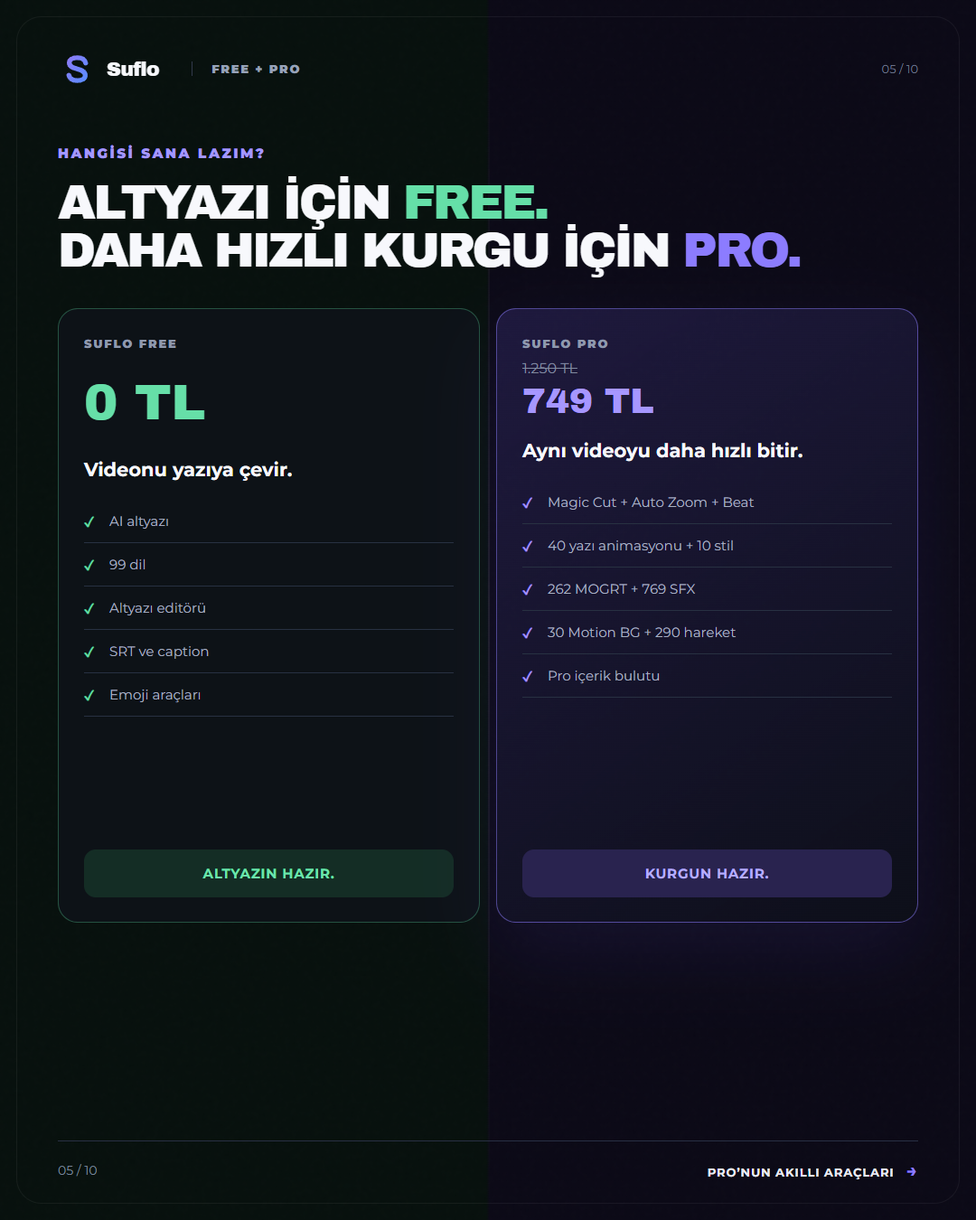
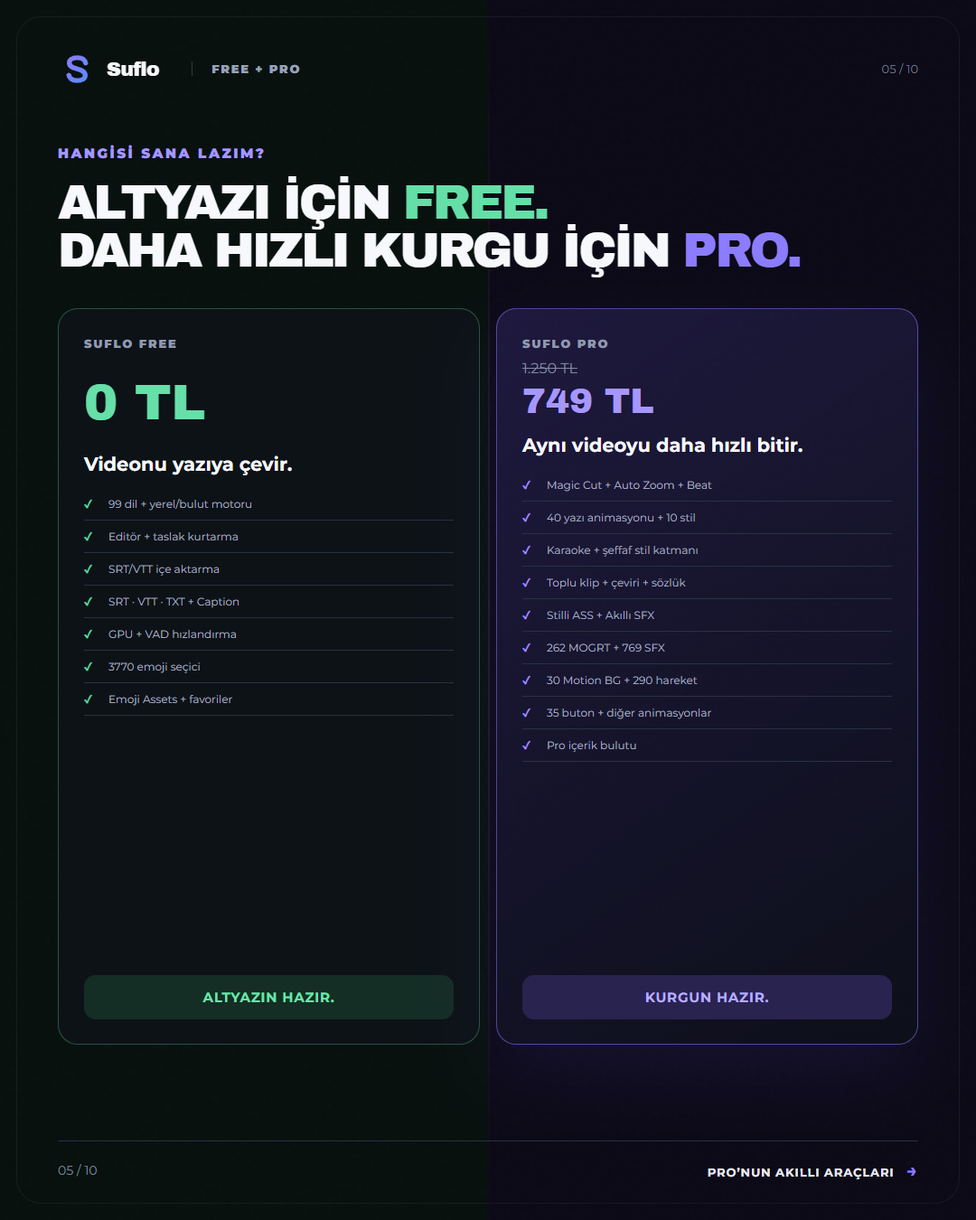
Complete Suflo carousel feature coverage

diff --git a/brand/campaign-2.8.2-FINAL/carousel.html b/brand/campaign-2.8.2-FINAL/carousel.html
@@ -29,7 +29,7 @@
       </div>
       <div class="hero-panel device"><img src="panel-captures/01-captions.png" alt="Suflo AI Altyazı paneli"></div>
       <div class="launch-ribbon"><span>DAHA HIZLI KURGU İSTEYENE</span><b>SUFLO PRO</b><del>1.250 TL</del><strong>749 TL</strong></div>
-      <footer class="foot"><span>suflo.app</span><b>KAYDIR: NASIL ÇALIŞIYOR? <i>→</i></b></footer>
+      <footer class="foot"><span>suflo.app · WINDOWS + macOS · PREMIERE 2020+</span><b>KAYDIR: NASIL ÇALIŞIYOR? <i>→</i></b></footer>
     </section>
 
     <section class="slide why" data-slide="2">
@@ -46,6 +46,15 @@
         <article class="suflo-score"><span>SUFLO</span><strong>99</strong><b>dil desteği</b></article>
       </div>
       <div class="local-proof"><i>●</i><div><b>SESİN BİLGİSAYARINDAN ÇIKMAZ</b><span>Altyazı bilgisayarında hazırlanır; dosyan hiçbir yere yüklenmez.</span></div><strong>YEREL AI</strong></div>
+      <div class="speed-proof">
+        <div class="speed-lead"><span>83 SANİYELİK GERÇEK KAYITTA</span><strong>22×</strong><b>KATA KADAR HIZLI</b></div>
+        <div class="speed-metrics">
+          <article><span>ESKİ MOTOR</span><strong>26,7 sn</strong></article>
+          <article><span>CPU + VAD</span><strong>8,5 sn</strong></article>
+          <article><span>NVIDIA GPU</span><strong>1,2 sn</strong></article>
+        </div>
+        <div class="speed-tech"><b>VAD</b><span>sessizliği atlar</span><b>CUDA + METAL</b><span>GPU’yu kullanır</span><b>5 MODEL</b><span>Tiny → Large v3</span><b>4 MOTOR</b><span>Yerel · Groq · OpenAI · Özel</span></div>
+      </div>
       <footer class="foot"><span>02 / 10</span><b>KURULUMDAN ALTYAZIYA 3 ADIM <i>→</i></b></footer>
     </section>
 
@@ -63,6 +72,16 @@
       </div>
       <div class="steps-panel device"><img src="panel-captures/01-captions.png" alt="Suflo Altyazı paneli"></div>
       <div class="micro-flow"><span>VİDEO</span><i>→</i><span>AI METİN</span><i>→</i><span>TIMELINE</span></div>
+      <div class="edit-proof">
+        <div class="edit-proof-head"><b>EDİTÖR DE İÇİNDE</b><span>Altyazıyı Premiere’e göndermeden bitir.</span></div>
+        <div class="edit-proof-grid">
+          <article><b>BÖL · BİRLEŞTİR</b><span>Satır ekle, sil, zamanı elle düzelt.</span></article>
+          <article><b>GERİ AL · KURTAR</b><span>Ctrl+Z/Y ve otomatik taslak.</span></article>
+          <article><b>BUL & DEĞİŞTİR</b><span>Türkçe İ/ı duyarlı tam kelime.</span></article>
+          <article><b>TOPLU KAYDIR</b><span>±0,5 sn; zamandan playhead’e git.</span></article>
+        </div>
+        <div class="format-strip"><b>İÇE: SRT · VTT</b><i>→</i><b>DIŞA: SRT · VTT · ASS · TXT</b><i>→</i><b>CAPTION</b></div>
+      </div>
       <footer class="foot"><span>03 / 10</span><b>PEKİ ÜCRETSİZDE NELER VAR? <i>→</i></b></footer>
     </section>
 
@@ -80,6 +99,14 @@
         <article><i>∞</i><div><b>Sınırsız kullanım</b><span>Kredi de yok, kullanım sayacı da.</span></div></article>
       </div>
       <div class="free-note"><b>BU KISIM ÜCRETSİZ KALACAK.</b><span>Pro almadan da altyazıyı sınırsız kullanırsın.</span></div>
+      <div class="free-detail-grid">
+        <article><b>SRT + VTT İÇE AKTAR</b><span>Dosyanı aç, düzelt, yeniden uygula.</span></article>
+        <article><b>GERİ AL + TASLAK</b><span>Çökse bile yaptığın iş kaybolmaz.</span></article>
+        <article><b>5 MODEL + VAD</b><span>Tiny · Base · Small · Turbo · Large v3</span></article>
+        <article><b>3770 EMOJİ</b><span>Türkçe ara; Apple görünümüyle metne veya playhead’e ekle.</span></article>
+      </div>
+      <div class="free-engine-strip"><b>YEREL</b><span>offline · sınırsız</span><i>+</i><b>GROQ</b><span>hızlı bulut</span><i>+</i><b>EMOJI ASSETS</b><span>Cloud veya kendi klasörün</span></div>
+      <div class="free-control-strip"><b>SES KATMANI SEÇ</b><i>•</i><b>SATIR UZUNLUĞU</b><i>•</i><b>NOKTALAMA</b><i>•</i><b>BÜYÜK / küçük HARF</b><i>•</i><b>MIT AÇIK KAYNAK</b></div>
       <footer class="foot"><span>04 / 10</span><b>PRO NEYİ DEĞİŞTİRİYOR? <i>→</i></b></footer>
     </section>
 
@@ -94,13 +121,13 @@
         <article class="free-column">
           <span class="plan-label">SUFLO FREE</span><strong>0 TL</strong>
           <h3>Videonu yazıya çevir.</h3>
-          <ul><li>AI altyazı</li><li>99 dil</li><li>Altyazı editörü</li><li>SRT ve caption</li><li>Emoji araçları</li></ul>
+          <ul><li>99 dil + yerel/bulut motoru</li><li>Editör + taslak kurtarma</li><li>SRT/VTT içe aktarma</li><li>SRT · VTT · TXT + Caption</li><li>GPU + VAD hızlandırma</li><li>3770 emoji seçici</li><li>Emoji Assets + favoriler</li></ul>
           <b class="plan-result">ALTYAZIN HAZIR.</b>
         </article>
         <article class="pro-column">
           <span class="plan-label">SUFLO PRO</span><div class="mini-price"><del>1.250 TL</del><strong>749 TL</strong></div>
           <h3>Aynı videoyu daha hızlı bitir.</h3>
-          <ul><li>Magic Cut + Auto Zoom + Beat</li><li>40 yazı animasyonu + 10 stil</li><li>262 MOGRT + 769 SFX</li><li>30 Motion BG + 290 hareket</li><li>Pro içerik bulutu</li></ul>
+          <ul><li>Magic Cut + Auto Zoom + Beat</li><li>40 yazı animasyonu + 10 stil</li><li>Karaoke + şeffaf stil katmanı</li><li>Toplu klip + çeviri + sözlük</li><li>Stilli ASS + Akıllı SFX</li><li>262 MOGRT + 769 SFX</li><li>30 Motion BG + 290 hareket</li><li>35 buton + diğer animasyonlar</li><li>Pro içerik bulutu</li></ul>
           <b class="plan-result">KURGUN HAZIR.</b>
         </article>
       </div>
@@ -115,9 +142,15 @@
         <h2>SESSİZLİKLERİ KES.<br><em>ZOOM’U TEK TEK YAPMA.</em></h2>
       </div>
       <div class="tool-cards">
-        <article><div class="tool-shot"><img src="panel-captures/05-magic-cut.png" alt="Magic Cut"></div><span>01</span><b>MAGIC CUT</b><p>Sessizlikleri bulur. Kontrol edersin, onayladığını uygular.</p></article>
-        <article><div class="tool-shot"><img src="panel-captures/06-auto-zoom.png" alt="Auto Zoom"></div><span>02</span><b>AUTO ZOOM</b><p>Konuşmanın vurgulu yerlerine seçtiğin tarzda zoom ekler.</p></article>
-        <article class="beat-card"><div class="beat-wave"><i></i><i></i><i></i><i></i><i></i><i></i><i></i></div><span>03</span><b>BEAT MARKER</b><p>Müziğin ritmini bulur, marker’ları timeline’a ekler.</p></article>
+        <article><div class="tool-shot"><img src="panel-captures/05-magic-cut.png" alt="Magic Cut"></div><span>01</span><b>MAGIC CUT</b><p>Sessizlikleri gösterir; onayladığını keser. Kopya sekansta orijinalini korur.</p></article>
+        <article><div class="tool-shot"><img src="panel-captures/06-auto-zoom.png" alt="Auto Zoom"></div><span>02</span><b>AUTO ZOOM</b><p>Yumuşak, sert veya snap zoom; hız, yoğunluk ve aralık ayarlı.</p></article>
+        <article class="beat-card"><div class="beat-wave"><i></i><i></i><i></i><i></i><i></i><i></i><i></i></div><span>03</span><b>BEAT MARKER</b><p>Bas/tiz vuruşlarını bulur, BPM’i söyler ve marker’ları timeline’a ekler.</p></article>
+      </div>
+      <div class="pro-workflow-grid">
+        <article><span>04</span><b>TOPLU KLİP</b><p>Seçtiğin klipleri sırayla tek işlemde yazıya döker.</p></article>
+        <article><span>05</span><b>ÇEVİRİ</b><p>TR · AZ · EN · RU arasında satır sırasını korur.</p></article>
+        <article><span>06</span><b>TERİM SÖZLÜĞÜ</b><p>Marka ve özel isimleri her transkriptte düzeltir.</p></article>
+        <article><span>07</span><b>STİLLİ ASS</b><p>Karaoke etiketleriyle dışa aktar; videoya göm.</p></article>
       </div>
       <footer class="foot"><span>06 / 10</span><b>SIRADA ALTYAZI STİLLERİ VAR <i>→</i></b></footer>
     </section>
@@ -145,8 +178,8 @@
         <div class="mogrt-panel-copy">
           <span>GERÇEK PANEL GÖRÜNÜMÜ</span>
           <strong>ÖNİZLE.<br>TEK TIKLA EKLE.</strong>
-          <p>Ara, favoriye al ve doğrudan timeline’a gönder.</p>
-          <div><b>40 PRO EFEKT</b><b>KENDİ GÜNCELLENİR</b></div>
+          <p>Ara, favoriye al ve doğrudan timeline’a gönder.<br><b class="style-count">10 ALTYAZI STİLİ:</b> Sarı, Yeşil, Kutu, Neon, Temiz, Zarif, Beyaz, Mor, Sticker, Daktilo.<br><b class="style-count">CANLI AYAR:</b> Kare al · font · renk · konum · kontur · hareket şiddeti.</p>
+          <div><b>40 PRO EFEKT</b><b>KARAOKE</b><b>KENDİ GÜNCELLENİR</b></div>
         </div>
       </div>
       <footer class="foot"><span>07 / 10</span><b>DAHA FAZLASI DA VAR <i>→</i></b></footer>
@@ -170,6 +203,12 @@
         <div class="lib-window right"><img src="panel-captures/04-sfx.png" alt="Suflo ses efektleri"><span>WHOOSH · IMPACT · CLICK · CAMERA · PAPER</span></div>
       </div>
       <div class="cloud-strip"><i>↻</i><div><b>PRO İÇERİK BULUTU</b><span>Yeni eklenenleri kendi bulur; sadece gereken dosyaları indirir.</span></div><strong>KENDİ GÜNCELLENİR</strong></div>
+      <div class="library-more-grid">
+        <article><strong>35</strong><b>TÜRKÇE BUTON</b><span>Abone Ol · Takip Et · İndir</span></article>
+        <article><strong>+</strong><b>DİĞER ANİMASYONLAR</b><span>Logo · grafik · lower third</span></article>
+        <article><strong>✦</strong><b>AKILLI SFX</b><span>Altyazıdaki vurguya ses önerir.</span></article>
+        <article><strong>♥</strong><b>FAVORİLER + SON</b><span>Arşivini bağla; aradığını tekrar bul.</span></article>
+      </div>
       <footer class="foot"><span>08 / 10</span><b>SON OLARAK FREE VE PRO FARKI <i>→</i></b></footer>
     </section>
 
@@ -183,15 +222,18 @@
       <div class="compare-table">
         <div class="table-head"><span>ÖZELLİK</span><b>FREE<br><small>0 TL</small></b><b>PRO<br><small>749 TL</small></b></div>
         <div><span>AI altyazı + 99 dil</span><i>✓</i><i>✓</i></div>
-        <div><span>Editör + SRT/Caption</span><i>✓</i><i>✓</i></div>
-        <div><span>Emoji araçları</span><i>✓</i><i>✓</i></div>
+        <div><span>Editör + içe/dışa aktarım + Caption</span><i>✓</i><i>✓</i></div>
+        <div><span>3770 emoji + Emoji Assets</span><i>✓</i><i>✓</i></div>
         <div><span>Magic Cut + Auto Zoom + Beat</span><i class="off">—</i><i>✓</i></div>
-        <div><span>40 yazı animasyonu + 10 stil</span><i class="off">—</i><i>✓</i></div>
-        <div><span>262 MOGRT + 769 SFX</span><i class="off">—</i><i>✓</i></div>
+        <div><span>40 animasyon + 10 stil + Karaoke</span><i class="off">—</i><i>✓</i></div>
+        <div><span>Toplu klip + çeviri + sözlük + ASS</span><i class="off">—</i><i>✓</i></div>
+        <div><span>262 MOGRT + 769 SFX + Akıllı SFX</span><i class="off">—</i><i>✓</i></div>
         <div><span>30 Motion BG + 290 hareket</span><i class="off">—</i><i>✓</i></div>
-        <div><span>Otomatik içerik güncellemesi</span><i class="off">—</i><i>✓</i></div>
+        <div><span>35 buton + diğer animasyonlar</span><i class="off">—</i><i>✓</i></div>
+        <div><span>İçerik bulutu + sağlık raporu</span><i class="off">—</i><i>✓</i></div>
       </div>
       <div class="compare-note"><b>SADECE ALTYAZI YAPIYORSAN:</b><span>Free yeter.</span><b>HER GÜN EDİT YAPIYORSAN:</b><span>Pro daha mantıklı.</span></div>
+      <div class="compare-cloud-proof"><b>PRO BULUTU GÜVENLİ ÇALIŞIR</b><span>Kesilen indirme devam eder · yalnız değişen dosya iner · SHA-256 doğrulanır · çevrimdışıyken son sağlam sürüm çalışır.</span></div>
       <footer class="foot"><span>09 / 10</span><b>FİYATI GÖRELİM <i>→</i></b></footer>
     </section>
 
@@ -206,6 +248,15 @@
       <div class="offer-benefits"><span>✓ Abonelik yok</span><span>✓ 3 bilgisayar</span><span>✓ 14 gün iade</span><span>✓ Ömür boyu güncelleme</span></div>
       <a class="cta" href="https://suflo.app/pro"><span>SUFLO PRO’YA GEÇ</span><b>suflo.app/pro</b><i>→</i></a>
       <div class="offer-free"><b>ALTYAZI İÇİN PRO ŞART DEĞİL.</b><span>Pro; Magic Cut, zoom, yazı animasyonları ve içerik kütüphanesini açar.</span></div>
+      <div class="offer-proof-grid">
+        <article><b>MAGIC CUT</b><span>Sessizlikleri temizle</span></article>
+        <article><b>AUTO ZOOM</b><span>Vurguya punch-in</span></article>
+        <article><b>BEAT MARKER</b><span>Ritmi timeline’a at</span></article>
+        <article><b>40 TEXT + 10 STİL</b><span>Karaoke dahil</span></article>
+        <article><b>262 MOGRT + 769 SFX</b><span>Akıllı önerilerle</span></article>
+        <article><b>290 MOTION + 30 BG</b><span>Tek tık + preset pack</span></article>
+      </div>
+      <div class="offer-workflow-strip">TOPLU KLİP <i>•</i> ÇEVİRİ <i>•</i> TERİM SÖZLÜĞÜ <i>•</i> STİLLİ ASS <i>•</i> 35 BUTON</div>
       <div class="offer-panel device"><img src="panel-captures/03-motion-presets.png" alt="Suflo Pro"></div>
       <footer class="foot"><span>@suflo.app</span><b>HEPSİ PREMIERE PANELİNİN İÇİNDE.</b></footer>
     </section>

diff --git a/brand/campaign-2.8.2-FINAL/carousel.css b/brand/campaign-2.8.2-FINAL/carousel.css
@@ -194,3 +194,25 @@ main,.slide{width:1080px;height:1350px}
 .cta span{font-size:12px}
 .offer-free b{font-size:13px}
 .offer-free span{font-size:12px}
+
+/* FINAL FULL AUDIT — every major Suflo capability earns visible space */
+.speed-proof{position:relative;z-index:9;height:240px;margin-top:16px;padding:18px;border:1px solid #333b50;border-radius:19px;background:linear-gradient(115deg,rgba(13,18,28,.98),rgba(30,25,62,.96));display:grid;grid-template-columns:190px 1fr;grid-template-rows:1fr 55px;gap:12px 16px}.speed-lead{grid-row:1;display:flex;flex-direction:column;justify-content:center}.speed-lead span{color:#9e94e9;font-size:9px;font-weight:900;letter-spacing:1.1px}.speed-lead strong{margin-top:8px;font-family:Archivo;font-size:63px;line-height:.86;color:#a496ff}.speed-lead b{margin-top:9px;font-size:11px;letter-spacing:.7px}.speed-metrics{display:grid;grid-template-columns:repeat(3,1fr);gap:9px}.speed-metrics article{padding:15px 13px;border:1px solid #363e53;border-radius:14px;background:rgba(11,15,24,.88);display:flex;flex-direction:column;justify-content:center}.speed-metrics span{color:#7f899e;font-size:9px;font-weight:900;letter-spacing:.7px}.speed-metrics strong{margin-top:9px;font-family:Archivo;font-size:22px}.speed-metrics article:last-child{border-color:#4d4a86;background:rgba(45,37,93,.45)}.speed-metrics article:last-child strong{color:#a79aff}.speed-tech{grid-column:1/3;padding:0 13px;border:1px solid #334148;border-radius:13px;background:rgba(22,73,57,.14);display:flex;align-items:center;gap:10px}.speed-tech b{color:#69dfa9;font-size:9px;letter-spacing:.55px}.speed-tech span{color:#82968f;font-size:9px}.speed-tech span:not(:last-child){margin-right:7px}
+
+.edit-proof{position:relative;z-index:14;width:515px;margin-top:14px;padding:15px;border:1px solid #343b50;border-radius:18px;background:rgba(12,16,26,.97)}.edit-proof-head{display:flex;align-items:center;justify-content:space-between}.edit-proof-head b{font-size:12px;letter-spacing:.8px;color:#a69bff}.edit-proof-head span{color:#7e899d;font-size:9px}.edit-proof-grid{margin-top:11px;display:grid;grid-template-columns:1fr 1fr;gap:8px}.edit-proof-grid article{height:68px;padding:11px 12px;border:1px solid #2c3447;border-radius:12px;background:#0f1420;display:flex;flex-direction:column}.edit-proof-grid b{font-size:9px;letter-spacing:.45px}.edit-proof-grid span{margin-top:5px;color:#7f899d;font-size:8px;line-height:1.35}.format-strip{height:48px;margin-top:9px;padding:0 10px;border:1px solid #493f83;border-radius:11px;background:#211c42;display:flex;align-items:center;justify-content:center;gap:8px}.format-strip b{font-size:7px;letter-spacing:.35px;white-space:nowrap}.format-strip i{color:#7164ce;font-style:normal}
+
+.free-detail-grid{position:relative;z-index:9;margin-top:14px;display:grid;grid-template-columns:repeat(4,1fr);gap:9px}.free-detail-grid article{height:100px;padding:14px 12px;border:1px solid #29433a;border-radius:14px;background:rgba(12,26,21,.91);display:flex;flex-direction:column}.free-detail-grid b{color:#dff9ec;font-size:10px;letter-spacing:.35px}.free-detail-grid span{margin-top:8px;color:#799187;font-size:9px;line-height:1.4}.free-engine-strip{position:relative;z-index:9;height:58px;margin-top:10px;padding:0 16px;border:1px solid #2e5546;border-radius:13px;background:rgba(20,64,49,.18);display:flex;align-items:center;gap:9px}.free-engine-strip b{color:#68dfa8;font-size:9px;letter-spacing:.55px}.free-engine-strip span{color:#81968e;font-size:9px}.free-engine-strip i{color:#3d765e;font-style:normal}
+
+.bridge-columns>article{height:815px}.bridge-columns li{padding:10px 0 10px 27px;font-size:12px;line-height:1.25}.bridge-columns h3{margin:20px 0 14px}.plan-result{padding:15px}
+
+.pro-workflow-grid{position:relative;z-index:9;margin-top:14px;display:grid;grid-template-columns:1fr 1fr;gap:10px}.pro-workflow-grid article{height:100px;padding:15px 17px;border:1px solid #30394c;border-radius:15px;background:linear-gradient(145deg,rgba(16,20,31,.98),rgba(28,23,54,.95));display:grid;grid-template-columns:35px 1fr;grid-template-rows:24px 1fr;column-gap:11px}.pro-workflow-grid span{grid-row:1/3;color:#9588fa;font-family:Archivo;font-size:12px}.pro-workflow-grid b{font-size:12px;letter-spacing:.35px}.pro-workflow-grid p{margin:3px 0 0;color:#858fa3;font-size:9px;line-height:1.4}
+
+.mogrt-panel-copy .style-count{padding:0;border:0;border-radius:0;background:none;color:#b9b1ff;font-size:9px}.mogrt-panel-copy>p{font-size:9px;line-height:1.42}.mogrt-panel-copy>div{gap:5px}.mogrt-panel-copy>div b{padding:7px 8px;font-size:7px}
+
+.library-more-grid{position:relative;z-index:12;margin-top:13px;display:grid;grid-template-columns:repeat(4,1fr);gap:9px}.library-more-grid article{height:135px;padding:16px 14px;border:1px solid #333b50;border-radius:15px;background:linear-gradient(145deg,rgba(15,19,29,.97),rgba(26,21,50,.96));display:flex;flex-direction:column}.library-more-grid strong{font-family:Archivo;font-size:29px;line-height:.9;color:#9f92ff}.library-more-grid b{margin-top:11px;font-size:10px;letter-spacing:.4px}.library-more-grid span{margin-top:8px;color:#7f899d;font-size:9px;line-height:1.4}.library-more-grid article:nth-child(3) strong{color:#5eddd1}.library-more-grid article:nth-child(4) strong{color:#ff7ea0}
+
+.compare-table>div{height:55px;grid-template-columns:1fr 118px 118px}.compare-table .table-head{height:68px}.compare-table span{font-size:11px}.compare-table i{width:28px;height:28px;border-radius:9px}.compare-note{height:92px;margin-top:12px;grid-template-columns:230px 1fr;padding:13px 18px}.compare-note b{font-size:10px}.compare-note span{font-size:11px}.compare-cloud-proof{position:relative;z-index:9;height:92px;margin-top:10px;padding:0 18px;border:1px solid #4d4387;border-radius:15px;background:linear-gradient(100deg,rgba(68,55,144,.26),rgba(13,17,27,.96));display:grid;grid-template-columns:210px 1fr;align-items:center;gap:15px}.compare-cloud-proof b{color:#aaa0ff;font-size:10px;letter-spacing:.55px}.compare-cloud-proof span{color:#8993a7;font-size:10px;line-height:1.5}
+
+.offer-proof-grid{position:relative;z-index:13;width:650px;margin-top:12px;display:grid;grid-template-columns:repeat(3,1fr);gap:8px}.offer-proof-grid article{height:84px;padding:13px 14px;border:1px solid #30394c;border-radius:13px;background:rgba(13,17,27,.94);display:flex;flex-direction:column}.offer-proof-grid b{font-size:10px;letter-spacing:.4px}.offer-proof-grid span{margin-top:8px;color:#838da1;font-size:9px}.offer-proof-grid article:nth-child(4),.offer-proof-grid article:nth-child(5),.offer-proof-grid article:nth-child(6){border-color:#41396e;background:rgba(36,30,70,.66)}.offer-workflow-strip{position:relative;z-index:13;width:650px;height:48px;margin-top:9px;padding:0 14px;border:1px solid #3f3a63;border-radius:12px;background:rgba(22,20,39,.92);display:flex;align-items:center;justify-content:center;color:#aaa2d9;font-size:8px;font-weight:900;letter-spacing:.45px}.offer-workflow-strip i{margin:0 7px;color:#6c61b7;font-style:normal}
+
+.free-control-strip{position:relative;z-index:9;height:46px;margin-top:8px;padding:0 12px;border:1px solid #315046;border-radius:12px;background:rgba(12,28,23,.92);display:flex;align-items:center;justify-content:center;color:#a8bcb4;font-size:8px;font-weight:900;letter-spacing:.32px}.free-control-strip i{margin:0 8px;color:#3c725d;font-style:normal}
+.speed-tech{gap:7px}.speed-tech b{font-size:8px}.speed-tech span{font-size:8px}.speed-tech span:not(:last-child){margin-right:3px}

diff --git a/brand/campaign-2.8.2-FINAL/capture-panel.js b/brand/campaign-2.8.2-FINAL/capture-panel.js
@@ -30,7 +30,12 @@ fs.mkdirSync(outDir, { recursive: true });
     { selector: '.ky-oge[data-tab="sfx"]', file: "04-sfx.png" },
     { selector: '.ky-oge[data-tab="cut"]', file: "05-magic-cut.png" },
     { selector: '.ky-oge[data-tab="zoom"]', file: "06-auto-zoom.png" },
-    { selector: '.ky-oge[data-tab="emoji-assets"]', file: "07-emoji-assets.png" }
+    { selector: '.ky-oge[data-tab="emoji-assets"]', file: "07-emoji-assets.png" },
+    { selector: '.ky-oge[data-tab="beat"]', file: "08-beat-marker.png" },
+    { selector: '.ky-oge[data-tab="motionbg"]', file: "09-motion-bg.png" },
+    { selector: '.ky-oge[data-tab="text"][data-kat="custom"]', file: "10-other-animations.png" },
+    { selector: '.ky-oge[data-tab="text"][data-kat="buton"]', file: "11-buttons.png" },
+    { selector: '.ky-oge[data-tab="settings"]', file: "12-settings.png" }
   ];
 
   for (var i = 0; i < captures.length; i++) {

diff --git a/brand/SUFLO-CAROUSEL-FINAL-2.8.2/SPONSORLU-REKLAM-METNI.md b/brand/SUFLO-CAROUSEL-FINAL-2.8.2/SPONSORLU-REKLAM-METNI.md
@@ -6,15 +6,20 @@ Premiere’de Türkçe altyazı için hâlâ farklı programlara gidip geliyorsa
 
 Videonu seçiyorsun, altyazıyı hazırlıyor ve timeline’a gönderiyorsun. Türkçe dahil 99 dili destekliyor. Üstelik altyazı tarafı tamamen ücretsiz; kredi veya kullanım sınırı yok.
 
+Panelde satır bölme/birleştirme, zaman düzeltme, geri al/yinele, taslak kurtarma, Türkçe duyarlı bul-değiştir, SRT/VTT içe aktarma ve SRT/VTT/TXT/Caption dışa aktarma da var. Yerel AI; VAD, NVIDIA CUDA ve Apple Metal hızlandırmasını destekliyor. 3770 emojili seçici ile ücretsiz Emoji Assets kütüphanesi de timeline’ın içinde.
+
 Her gün edit yapıyorsan Pro tarafında da şunlar var:
 
 • Magic Cut ile sessizlikleri bulup kesme
 • Auto Zoom ile konuşmaya otomatik zoom ekleme
 • Beat Marker ile ritimleri timeline’a işaretleme
 • Zoom In, Slide Collide, Cracked, Spinning Butter, Ocean Waves, Coolvetica Wave, Rock Solidance ve Jitter Shine dahil 40 yazı animasyonu
-• 10 farklı altyazı stili
+• Karaoke ve şeffaf stil katmanıyla 10 farklı altyazı stili
+• Toplu klip transkripsiyonu, TR/AZ/EN/RU çeviri, terim sözlüğü ve stilli ASS
 • 262 MOGRT, 769 SFX ve 30 Motion BG
 • 12 tek-tık Motion ve 278 efektlik Suflo Smooth Pack
+• 35 Türkçe buton, logo/grafik/lower-third animasyonları
+• Altyazıdaki vurgu anlarına ses öneren Akıllı SFX
 • Yeni içerikleri kendi kontrol eden Pro içerik bulutu
 
 Sadece altyazı yapacaksan Free yeter. Kurguda aynı işleri tekrar tekrar yapıyorsan Pro daha mantıklı.
@@ -25,7 +30,7 @@ https://suflo.app/pro
 
 ## Kısa reklam metni
 
-Premiere’de Türkçe AI altyazı ücretsiz. Her gün edit yapıyorsan Magic Cut, Auto Zoom, Beat Marker, 40 yazı animasyonu, 10 altyazı stili, 262 MOGRT, 769 SFX ve 290 hareket Pro’da. Lansmana özel 1.250 TL yerine 749 TL; tek ödeme, abonelik yok.
+Premiere’de Türkçe AI altyazı ücretsiz. Her gün edit yapıyorsan Magic Cut, Auto Zoom, Beat Marker, 40 yazı animasyonu, 10 altyazı stili, 262 MOGRT, 769 SFX, Akıllı SFX, 30 Motion BG, 290 hareket ve 35 Türkçe buton Pro’da. Lansmana özel 1.250 TL yerine 749 TL; tek ödeme, abonelik yok.
 
 ## Başlık
 
@@ -41,4 +46,4 @@ Hemen İncele
 
 ## Alt metin
 
-Suflo’nun ücretsiz Türkçe AI altyazı özelliğini; Free ve Pro paket farklarını; Magic Cut, Auto Zoom, Beat Marker, 40 yazı animasyonu, altyazı stilleri, MOGRT, SFX ve Motion kütüphanelerini anlatan on sayfalık Instagram karuseli. Son sayfada Suflo Pro’nun 1.250 TL yerine 749 TL olan lansman fiyatı yer alıyor.
+Suflo’nun ücretsiz Türkçe AI altyazı, gelişmiş editör, içe/dışa aktarma ve emoji özelliklerini; Free ve Pro paket farklarını; Magic Cut, Auto Zoom, Beat Marker, toplu klip, çeviri, sözlük, stilli ASS, 40 yazı animasyonu, 10 altyazı stili, MOGRT, Akıllı SFX, Motion BG, preset ve buton kütüphanelerini anlatan on sayfalık Instagram karuseli. Son sayfada Suflo Pro’nun 1.250 TL yerine 749 TL olan lansman fiyatı yer alıyor.

diff --git a/brand/campaign-2.8.2-FINAL/copy.md b/brand/campaign-2.8.2-FINAL/copy.md
@@ -6,15 +6,20 @@ Premiere’de Türkçe altyazı için hâlâ farklı programlara gidip geliyorsa
 
 Videonu seçiyorsun, altyazıyı hazırlıyor ve timeline’a gönderiyorsun. Türkçe dahil 99 dili destekliyor. Üstelik altyazı tarafı tamamen ücretsiz; kredi veya kullanım sınırı yok.
 
+Panelde satır bölme/birleştirme, zaman düzeltme, geri al/yinele, taslak kurtarma, Türkçe duyarlı bul-değiştir, SRT/VTT içe aktarma ve SRT/VTT/TXT/Caption dışa aktarma da var. Yerel AI; VAD, NVIDIA CUDA ve Apple Metal hızlandırmasını destekliyor. 3770 emojili seçici ile ücretsiz Emoji Assets kütüphanesi de timeline’ın içinde.
+
 Her gün edit yapıyorsan Pro tarafında da şunlar var:
 
 • Magic Cut ile sessizlikleri bulup kesme
 • Auto Zoom ile konuşmaya otomatik zoom ekleme
 • Beat Marker ile ritimleri timeline’a işaretleme
 • Zoom In, Slide Collide, Cracked, Spinning Butter, Ocean Waves, Coolvetica Wave, Rock Solidance ve Jitter Shine dahil 40 yazı animasyonu
-• 10 farklı altyazı stili
+• Karaoke ve şeffaf stil katmanıyla 10 farklı altyazı stili
+• Toplu klip transkripsiyonu, TR/AZ/EN/RU çeviri, terim sözlüğü ve stilli ASS
 • 262 MOGRT, 769 SFX ve 30 Motion BG
 • 12 tek-tık Motion ve 278 efektlik Suflo Smooth Pack
+• 35 Türkçe buton, logo/grafik/lower-third animasyonları
+• Altyazıdaki vurgu anlarına ses öneren Akıllı SFX
 • Yeni içerikleri kendi kontrol eden Pro içerik bulutu
 
 Sadece altyazı yapacaksan Free yeter. Kurguda aynı işleri tekrar tekrar yapıyorsan Pro daha mantıklı.
@@ -25,7 +30,7 @@ https://suflo.app/pro
 
 ## Kısa reklam metni
 
-Premiere’de Türkçe AI altyazı ücretsiz. Her gün edit yapıyorsan Magic Cut, Auto Zoom, Beat Marker, 40 yazı animasyonu, 10 altyazı stili, 262 MOGRT, 769 SFX ve 290 hareket Pro’da. Lansmana özel 1.250 TL yerine 749 TL; tek ödeme, abonelik yok.
+Premiere’de Türkçe AI altyazı ücretsiz. Her gün edit yapıyorsan Magic Cut, Auto Zoom, Beat Marker, 40 yazı animasyonu, 10 altyazı stili, 262 MOGRT, 769 SFX, Akıllı SFX, 30 Motion BG, 290 hareket ve 35 Türkçe buton Pro’da. Lansmana özel 1.250 TL yerine 749 TL; tek ödeme, abonelik yok.
 
 ## Başlık
 
@@ -41,4 +46,4 @@ Hemen İncele
 
 ## Alt metin
 
-Suflo’nun ücretsiz Türkçe AI altyazı özelliğini; Free ve Pro paket farklarını; Magic Cut, Auto Zoom, Beat Marker, 40 yazı animasyonu, altyazı stilleri, MOGRT, SFX ve Motion kütüphanelerini anlatan on sayfalık Instagram karuseli. Son sayfada Suflo Pro’nun 1.250 TL yerine 749 TL olan lansman fiyatı yer alıyor.
+Suflo’nun ücretsiz Türkçe AI altyazı, gelişmiş editör, içe/dışa aktarma ve emoji özelliklerini; Free ve Pro paket farklarını; Magic Cut, Auto Zoom, Beat Marker, toplu klip, çeviri, sözlük, stilli ASS, 40 yazı animasyonu, 10 altyazı stili, MOGRT, Akıllı SFX, Motion BG, preset ve buton kütüphanelerini anlatan on sayfalık Instagram karuseli. Son sayfada Suflo Pro’nun 1.250 TL yerine 749 TL olan lansman fiyatı yer alıyor.

diff --git a/brand/SUFLO-CAROUSEL-FINAL-2.8.2/provenance.md b/brand/SUFLO-CAROUSEL-FINAL-2.8.2/provenance.md
@@ -5,12 +5,15 @@
 - Güncel arayüz: yerel `index.html`, `css/style.css` ve JavaScript modüllerinden alınmış 2.8.2 ekran görüntüleri
 - Sürüm: `CSXS/manifest.xml` — 2.8.2
 - AI altyazı, 99 dil, dışa aktarma, ücretsiz kullanım ve yerel gizlilik: `README.md`, `index.html`, canlı ürün sayfası
-- Premiere dil sayısı ve Türkçe/Azerbaycanca karşılaştırması: canlı ürün sayfasındaki karşılaştırma bölümü
+- Premiere dil sayısı ve Türkçe/Azerbaycanca karşılaştırması: Adobe'nin resmi Speech-to-Text dil listesi (`https://helpx.adobe.com/premiere/desktop/add-text-images/insert-captions/languages-supported-by-speech-to-text.html`) ve canlı ürün sayfası
+- 22 kata kadar hız, 83 saniyelik test ve 26,7/8,5/1,2 saniye değerleri: canlı `suflo.app` hız bölümü
 - Magic Cut ve Auto Zoom: `js/magiccut.js`, `js/zoom.js`, `marketing/release-notes.md`
 - On stil ve stil adları: `index.html`, `js/captions.js`
+- Toplu klip, çeviri, terim sözlüğü, stilli ASS, ses katmanı, canlı stil ayarları, içe/dışa aktarma ve 3770 emoji seçici: `README.md`, `index.html`, `js/captions.js`, `js/style-engine.js`
+- Akıllı SFX, favoriler, diğer animasyonlar, 35 Türkçe buton ve kütüphane sağlık raporu: canlı ürün sayfası, `index.html`, `js/sfx.js`, `js/library.js`, `js/library-health.js`
 - Pro içerik sayıları: `dist/pro-cdn/upload/private/pro-v1/manifest.json` — 262 MOGRT, 769 SFX, 30 Motion BG
 - Motion sayıları: `js/presets.js` — 12 tek-tık Motion + 278 efektlik paket = 290 hareket
-- Cihaz ve iade: canlı Pro sayfası — 3 bilgisayar, 14 gün iade
+- Cihaz ve iade: kullanıcı tarafından onaylanan kesin reklam metni — 3 bilgisayar, 14 gün iade
 - Kampanya fiyatı: kullanıcı tarafından onaylanan kesin reklam metni — `1.250 TL yerine 749 TL`
 
-Görsellerde gerçek 2.8.2 panel arayüzü kullanıldı. Pro özellikleri, Pro müşteri deneyimini doğru gösterecek biçimde açık halde gösterildi. Gerçek dışı müşteri yorumu, süre/kazanç garantisi veya doğrulanmamış performans iddiası kullanılmadı.
+Görsellerde gerçek 2.8.2 panel arayüzü kullanıldı. Pro özellikleri, Pro müşteri deneyimini doğru gösterecek biçimde açık halde gösterildi. Ürün doğrulamasında `tools/test.ps1` ile 32 test dosyası geçti, atlanan veya başarısız test olmadı. Gerçek dışı müşteri yorumu, süre/kazanç garantisi veya doğrulanmamış performans iddiası kullanılmadı.

diff --git a/brand/campaign-2.8.2-FINAL/provenance.md b/brand/campaign-2.8.2-FINAL/provenance.md
@@ -5,12 +5,15 @@
 - Güncel arayüz: yerel `index.html`, `css/style.css` ve JavaScript modüllerinden alınmış 2.8.2 ekran görüntüleri
 - Sürüm: `CSXS/manifest.xml` — 2.8.2
 - AI altyazı, 99 dil, dışa aktarma, ücretsiz kullanım ve yerel gizlilik: `README.md`, `index.html`, canlı ürün sayfası
-- Premiere dil sayısı ve Türkçe/Azerbaycanca karşılaştırması: canlı ürün sayfasındaki karşılaştırma bölümü
+- Premiere dil sayısı ve Türkçe/Azerbaycanca karşılaştırması: Adobe'nin resmi Speech-to-Text dil listesi (`https://helpx.adobe.com/premiere/desktop/add-text-images/insert-captions/languages-supported-by-speech-to-text.html`) ve canlı ürün sayfası
+- 22 kata kadar hız, 83 saniyelik test ve 26,7/8,5/1,2 saniye değerleri: canlı `suflo.app` hız bölümü
 - Magic Cut ve Auto Zoom: `js/magiccut.js`, `js/zoom.js`, `marketing/release-notes.md`
 - On stil ve stil adları: `index.html`, `js/captions.js`
+- Toplu klip, çeviri, terim sözlüğü, stilli ASS, ses katmanı, canlı stil ayarları, içe/dışa aktarma ve 3770 emoji seçici: `README.md`, `index.html`, `js/captions.js`, `js/style-engine.js`
+- Akıllı SFX, favoriler, diğer animasyonlar, 35 Türkçe buton ve kütüphane sağlık raporu: canlı ürün sayfası, `index.html`, `js/sfx.js`, `js/library.js`, `js/library-health.js`
 - Pro içerik sayıları: `dist/pro-cdn/upload/private/pro-v1/manifest.json` — 262 MOGRT, 769 SFX, 30 Motion BG
 - Motion sayıları: `js/presets.js` — 12 tek-tık Motion + 278 efektlik paket = 290 hareket
-- Cihaz ve iade: canlı Pro sayfası — 3 bilgisayar, 14 gün iade
+- Cihaz ve iade: kullanıcı tarafından onaylanan kesin reklam metni — 3 bilgisayar, 14 gün iade
 - Kampanya fiyatı: kullanıcı tarafından onaylanan kesin reklam metni — `1.250 TL yerine 749 TL`
 
-Görsellerde gerçek 2.8.2 panel arayüzü kullanıldı. Pro özellikleri, Pro müşteri deneyimini doğru gösterecek biçimde açık halde gösterildi. Gerçek dışı müşteri yorumu, süre/kazanç garantisi veya doğrulanmamış performans iddiası kullanılmadı.
+Görsellerde gerçek 2.8.2 panel arayüzü kullanıldı. Pro özellikleri, Pro müşteri deneyimini doğru gösterecek biçimde açık halde gösterildi. Ürün doğrulamasında `tools/test.ps1` ile 32 test dosyası geçti, atlanan veya başarısız test olmadı. Gerçek dışı müşteri yorumu, süre/kazanç garantisi veya doğrulanmamış performans iddiası kullanılmadı.

diff --git a/brand/SUFLO-CAROUSEL-FINAL-2.8.2/OZELLIK-KAPSAM-KONTROLU.md b/brand/SUFLO-CAROUSEL-FINAL-2.8.2/OZELLIK-KAPSAM-KONTROLU.md
@@ -1,0 +1,30 @@
+# Suflo 2.8.2 — karusel özellik kapsamı
+
+Bu dosya, eklenti ve suflo.app üzerindeki güncel özelliklerin karuselde nerede anlatıldığını doğrular.
+
+| Özellik | Karusel sayfası |
+|---|---|
+| Ücretsiz Türkçe altyazı, 99 dil, çevrimdışı ve sınırsız kullanım | 1, 2, 4, 9 |
+| Seçili klip, In-Out ve tüm sekans kapsamı | 3 |
+| Windows/macOS ve Premiere 2020+ uyumu | 1 |
+| Yerel AI, VAD, NVIDIA CUDA, Apple Metal ve 5 model | 2, 4 |
+| Yerel, Groq, OpenAI ve özel endpoint motorları | 2, 4 |
+| Ses katmanı seçimi, satır uzunluğu, noktalama ve yazım biçimi | 4 |
+| Satır bölme-birleştirme, zaman düzeltme, toplu kaydırma | 3, 4 |
+| Geri al-yinele, taslak kurtarma, Türkçe duyarlı bul-değiştir | 3, 4 |
+| SRT/VTT içe aktarma; SRT/VTT/TXT/ASS/Caption çıktısı | 3, 4, 6, 9 |
+| 3770 emoji seçici ve ücretsiz Emoji Assets | 4, 5, 9 |
+| Magic Cut, Auto Zoom ve Beat Marker | 1, 5, 6, 9, 10 |
+| Toplu klip, TR/AZ/EN/RU çeviri, terim sözlüğü, stilli ASS | 5, 6, 9, 10 |
+| Karaoke, şeffaf stil katmanı ve 10 altyazı stili | 5, 7, 9, 10 |
+| Canlı kare önizleme; font, renk, konum, kontur ve hareket şiddeti | 7 |
+| 40 seçili yazı animasyonu | 1, 5, 7, 9, 10 |
+| 262 MOGRT ve diğer logo/grafik/lower-third animasyonları | 1, 5, 7, 8, 9, 10 |
+| 35 Türkçe buton | 5, 8, 9, 10 |
+| 769 SFX, arama/ön dinleme/favoriler ve Akıllı SFX | 1, 5, 8, 9, 10 |
+| 12 tek-tık Motion + 278 efektlik Suflo Smooth paketi | 1, 5, 8, 9, 10 |
+| 30 Motion BG | 1, 5, 8, 9, 10 |
+| Pro İçerik Bulutu, artımlı indirme, devam etme, SHA-256 ve çevrimdışı sağlam sürüm | 5, 7, 8, 9 |
+| Kütüphane sağlık kontrolü ve destek raporu | 9 |
+| Tek ödeme, abonelik yok, 3 bilgisayar, iade ve güncelleme | 10 |
+| MIT açık kaynak çekirdek | 4 |

diff --git a/brand/campaign-2.8.2-FINAL/feature-audit.md b/brand/campaign-2.8.2-FINAL/feature-audit.md
@@ -1,0 +1,30 @@
+# Suflo 2.8.2 — karusel özellik kapsamı
+
+Bu dosya, eklenti ve suflo.app üzerindeki güncel özelliklerin karuselde nerede anlatıldığını doğrular.
+
+| Özellik | Karusel sayfası |
+|---|---|
+| Ücretsiz Türkçe altyazı, 99 dil, çevrimdışı ve sınırsız kullanım | 1, 2, 4, 9 |
+| Seçili klip, In-Out ve tüm sekans kapsamı | 3 |
+| Windows/macOS ve Premiere 2020+ uyumu | 1 |
+| Yerel AI, VAD, NVIDIA CUDA, Apple Metal ve 5 model | 2, 4 |
+| Yerel, Groq, OpenAI ve özel endpoint motorları | 2, 4 |
+| Ses katmanı seçimi, satır uzunluğu, noktalama ve yazım biçimi | 4 |
+| Satır bölme-birleştirme, zaman düzeltme, toplu kaydırma | 3, 4 |
+| Geri al-yinele, taslak kurtarma, Türkçe duyarlı bul-değiştir | 3, 4 |
+| SRT/VTT içe aktarma; SRT/VTT/TXT/ASS/Caption çıktısı | 3, 4, 6, 9 |
+| 3770 emoji seçici ve ücretsiz Emoji Assets | 4, 5, 9 |
+| Magic Cut, Auto Zoom ve Beat Marker | 1, 5, 6, 9, 10 |
+| Toplu klip, TR/AZ/EN/RU çeviri, terim sözlüğü, stilli ASS | 5, 6, 9, 10 |
+| Karaoke, şeffaf stil katmanı ve 10 altyazı stili | 5, 7, 9, 10 |
+| Canlı kare önizleme; font, renk, konum, kontur ve hareket şiddeti | 7 |
+| 40 seçili yazı animasyonu | 1, 5, 7, 9, 10 |
+| 262 MOGRT ve diğer logo/grafik/lower-third animasyonları | 1, 5, 7, 8, 9, 10 |
+| 35 Türkçe buton | 5, 8, 9, 10 |
+| 769 SFX, arama/ön dinleme/favoriler ve Akıllı SFX | 1, 5, 8, 9, 10 |
+| 12 tek-tık Motion + 278 efektlik Suflo Smooth paketi | 1, 5, 8, 9, 10 |
+| 30 Motion BG | 1, 5, 8, 9, 10 |
+| Pro İçerik Bulutu, artımlı indirme, devam etme, SHA-256 ve çevrimdışı sağlam sürüm | 5, 7, 8, 9 |
+| Kütüphane sağlık kontrolü ve destek raporu | 9 |
+| Tek ödeme, abonelik yok, 3 bilgisayar, iade ve güncelleme | 10 |
+| MIT açık kaynak çekirdek | 4 |
